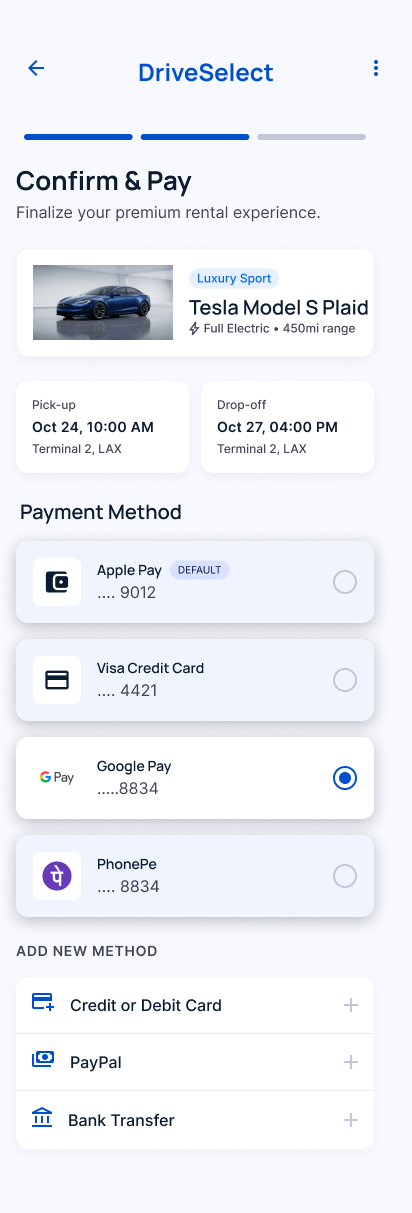
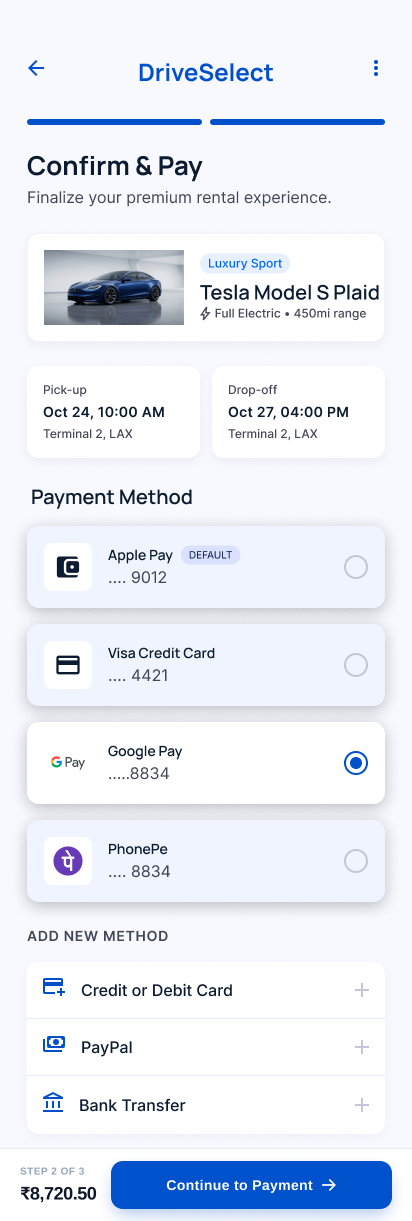
add

diff --git a/carui.html b/carui.html
@@ -52,6 +52,10 @@
                         <img class="wire-img" src="img/car-details.png" alt="">
                         <p>Car Details Screen</p>
                     </div>
+                    <div class="wife-img-g car-img1">
+                        <img class="wire-img" src="img/id-car.png" alt="">
+                        <p>Id Verification Screen</p>
+                    </div>
                     
                     <div class="wife-img-g car-img1">
                         <img class="wire-img" src="img/car-payment.png" alt="">
